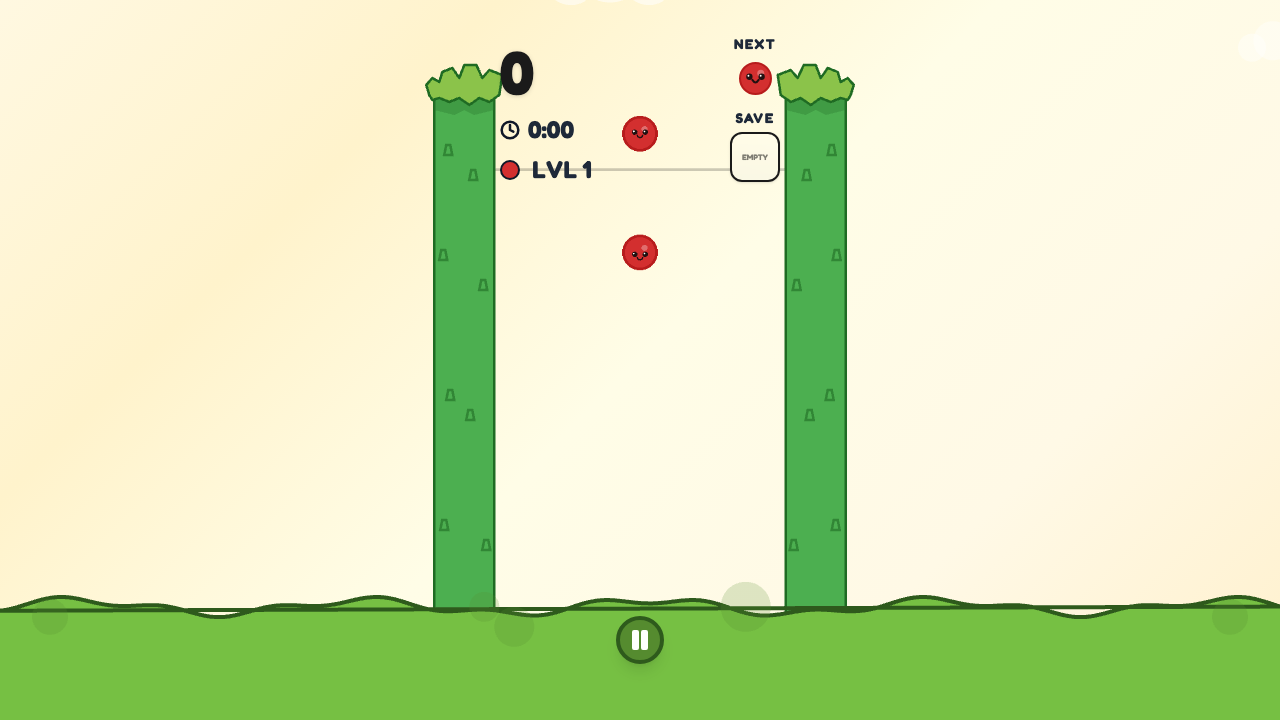
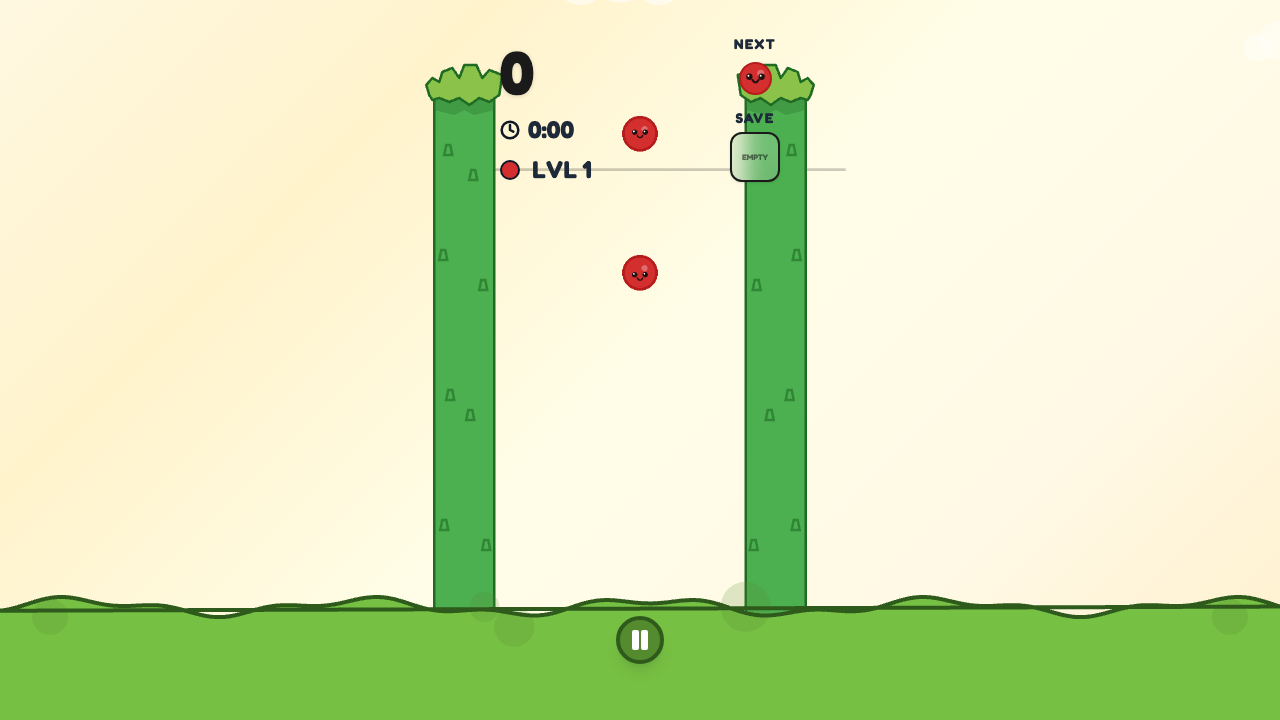
fix: Separate ground fill and stroke into different Graphics objects, fix wall pivot for right-side mirroring

Changed region(s): [[0.5625, 0.0917, 0.6875, 0.8556], [0.4688, 0.3361, 0.5312, 0.3972]]

diff --git a/services/renderers/GroundRenderer.ts b/services/renderers/GroundRenderer.ts
@@ -6,34 +6,31 @@ import * as PIXI from 'pixi.js';
  * Extends beyond game area to cover screen edges, matching original behavior.
  */
 export class GroundRenderer {
-    private graphics: PIXI.Graphics;
+    private fillGraphics: PIXI.Graphics;
+    private strokeGraphics: PIXI.Graphics;
     private container: PIXI.Container;
 
     constructor(stage: PIXI.Container) {
         this.container = new PIXI.Container();
-        this.graphics = new PIXI.Graphics();
-        this.container.addChild(this.graphics);
-        this.container.zIndex = 5; // Same z-index as original GroundCanvas
+        this.fillGraphics = new PIXI.Graphics();
+        this.strokeGraphics = new PIXI.Graphics();
+        this.container.addChild(this.fillGraphics);
+        this.container.addChild(this.strokeGraphics);
+        this.container.zIndex = 5;
         stage.addChild(this.container);
     }
 
     /**
      * Draw the ground floor in screen coordinates.
-     * @param viewWidth Viewport width in CSS pixels
-     * @param viewHeight Viewport height in CSS pixels
-     * @param gameAreaWidth Game area width in CSS pixels
-     * @param gameAreaHeight Game area height in CSS pixels
-     * @param containerTop Container Y position on screen (CSS pixels)
-     * @param containerLeft Container X position on screen (CSS pixels)
      */
     draw(viewWidth: number, viewHeight: number, gameAreaWidth: number, gameAreaHeight: number, containerTop: number, containerLeft: number): void {
-        this.graphics.clear();
+        this.fillGraphics.clear();
+        this.strokeGraphics.clear();
 
         const V_WIDTH = 600;
         const scaleFactor = gameAreaWidth / V_WIDTH;
 
         // Game floor position in viewport coordinates
-        // Original: virtualFloorOffset = 15, gameFloorOffset = 15 * scaleFactor
         const virtualFloorOffset = 15;
         const gameFloorOffset = virtualFloorOffset * scaleFactor;
         const gameFloorY = containerTop + gameAreaHeight - gameFloorOffset;
@@ -47,49 +44,38 @@ export class GroundRenderer {
             return gameFloorY + visualWaveHeight;
         };
 
-        // Build the ground shape
+        // Draw fill (closed polygon - no stroke)
         const step = 5;
-        const points: number[] = [];
-
-        // Start at bottom-left
-        points.push(0, viewHeight);
-        // Go up to wave start at left edge
-        points.push(0, getWaveY(0));
-
-        // Draw wave across the full viewport width
+        const fillPoints: number[] = [];
+        fillPoints.push(0, viewHeight);
+        fillPoints.push(0, getWaveY(0));
         for (let x = 0; x <= viewWidth; x += step) {
-            points.push(x, getWaveY(x));
+            fillPoints.push(x, getWaveY(x));
         }
+        fillPoints.push(viewWidth, getWaveY(viewWidth));
+        fillPoints.push(viewWidth, viewHeight);
 
-        // Close the shape at bottom-right
-        points.push(viewWidth, getWaveY(viewWidth));
-        points.push(viewWidth, viewHeight);
+        this.fillGraphics.poly(fillPoints);
+        this.fillGraphics.fill({ color: 0x76C043 });
 
-        this.graphics.poly(points);
-        this.graphics.fill({ color: 0x76C043 });
-
-        // Border stroke on top edge
+        // Draw stroke (just the top wave line, no fill)
         const strokePoints: number[] = [];
         for (let x = 0; x <= viewWidth; x += step) {
             strokePoints.push(x, getWaveY(x));
         }
-        this.graphics.poly(strokePoints);
-        this.graphics.stroke({ width: 4, color: 0x2E5A1C });
+        this.strokeGraphics.poly(strokePoints);
+        this.strokeGraphics.stroke({ width: 4, color: 0x2E5A1C });
 
         // Decorative circles
         const addDecoration = (x: number, y: number, radius: number, alpha: number = 0.2) => {
-            this.graphics.circle(x, y, radius);
-            this.graphics.fill({ color: 0x558B2F, alpha });
+            this.fillGraphics.circle(x, y, radius);
+            this.fillGraphics.fill({ color: 0x558B2F, alpha });
         };
 
-        // Left decorations (relative to game area)
         addDecoration(containerLeft + 50, gameFloorY, 15);
         addDecoration(containerLeft + 80, gameFloorY + 20, 20);
-
-        // Right decorations
         addDecoration(containerLeft + gameAreaWidth - 100, gameFloorY, 25);
 
-        // Extra decorations for extended areas
         if (containerLeft > 100) {
             addDecoration(50, gameFloorY + 10, 18);
         }

diff --git a/services/renderers/WallRenderer.ts b/services/renderers/WallRenderer.ts
@@ -77,8 +77,8 @@ export class WallRenderer {
 
         // Mirror right wall so flat side faces game area
         if (side === 'right') {
+            g.pivot.set(40, 0);
             g.scale.set(-1, 1);
-            g.x = 80; // Adjust for the flip
         }
 
         return g;
